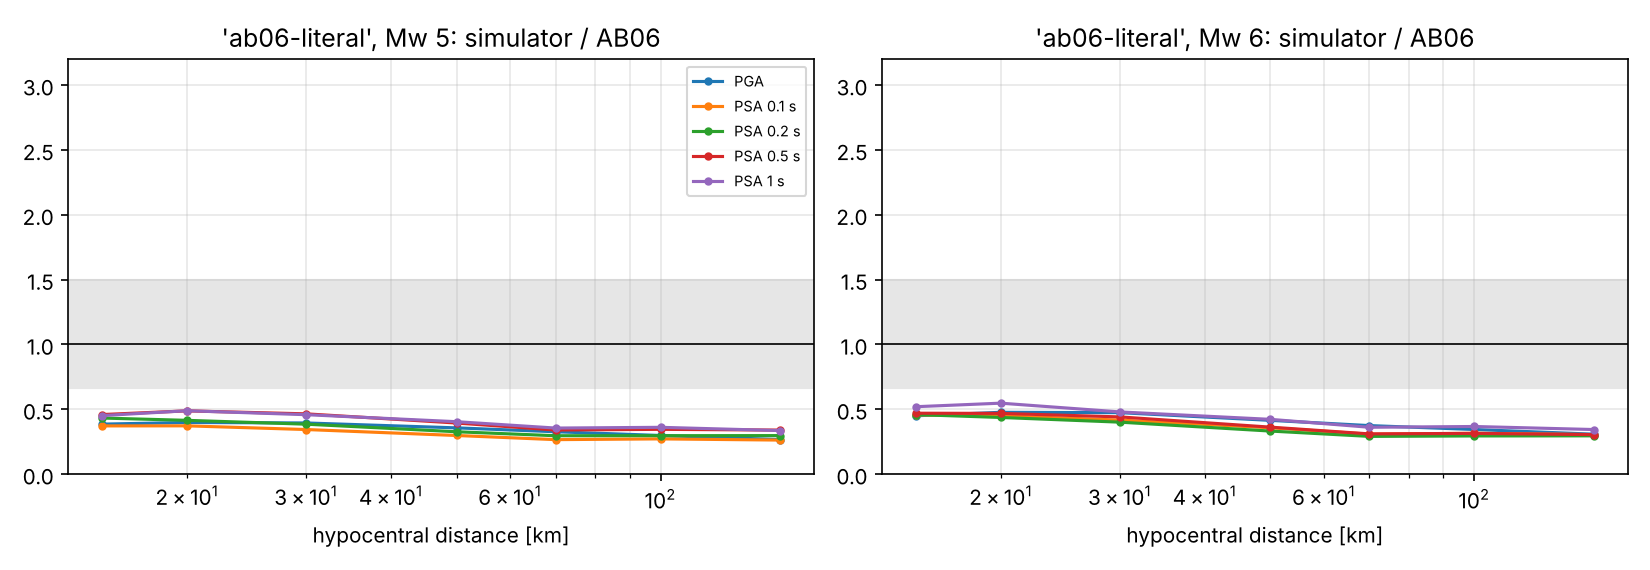
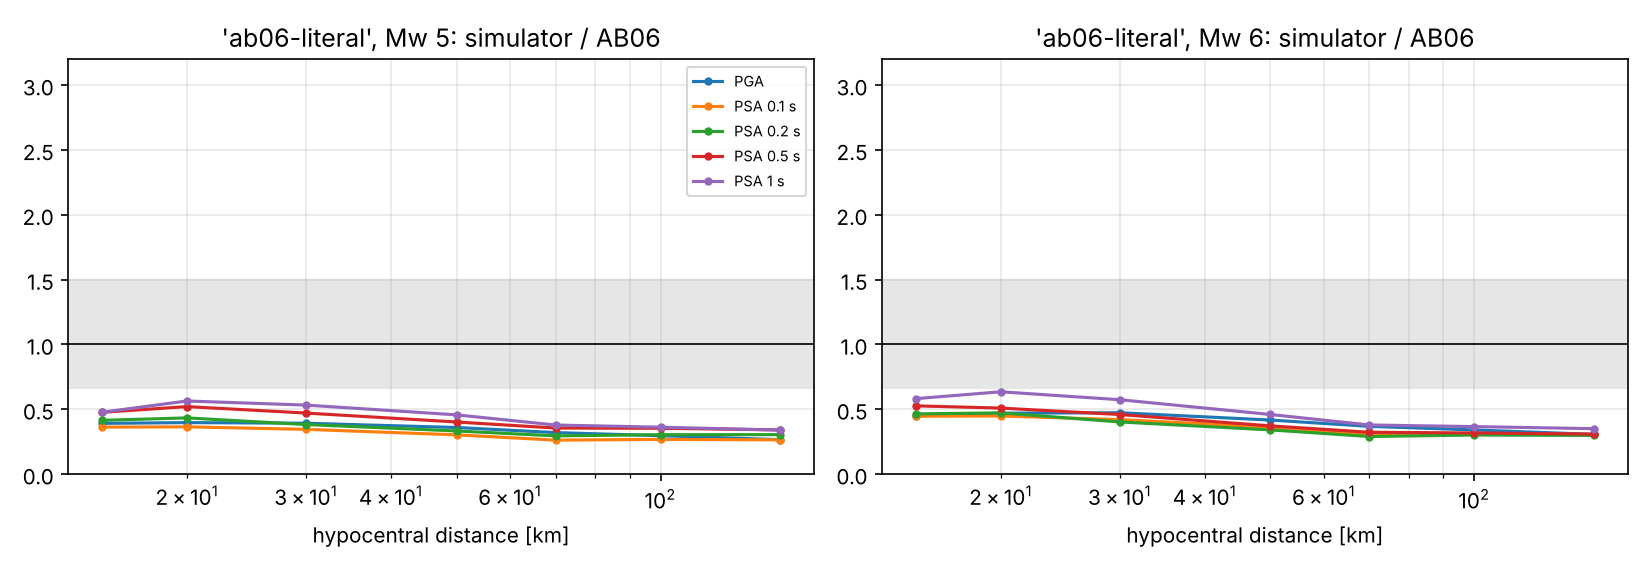
Independent P and S white noise (SimConfig.independent_ps_noise, default True)
Shared noise made the radial P/SV terms cancel partly when windows overlap,
so the energy fell to 0.67-0.9 of the target. Independent noise gives
0.97-1.01. The shared behaviour stays available (False / --shared-ps-noise).
Verification results, figures and READMEs updated.

Claude-Session: https://claude.ai/code/session_01MQgfPYRShpzXDpoBYcVaCQ

Changed region(s): [[0.0618, 0.686, 0.4945, 0.7754], [0.5564, 0.686, 0.9891, 0.7754]]

diff --git a/stochastic_gm/earthquake.py b/stochastic_gm/earthquake.py
@@ -58,7 +58,7 @@ def _process_one_subsource(args: tuple) -> dict:
     import math
     from stochastic_gm.physics import white_noise, FFT, scale_spectrum
 
-    ps, sim_seed, dt, standard_freqs, duration_max, _, noise_corr = args
+    ps, sim_seed, dt, standard_freqs, duration_max, _, noise_corr, indep_ps = args
 
     Normalization = None
     n_samples     = ps['n_samples']
@@ -73,6 +73,15 @@ def _process_one_subsource(args: tuple) -> dict:
     # 1. Generate unit-variance white noise (NOT duration-scaled)
     # ------------------------------------------------------------------
     wNoise = white_noise(n_samples, standard_dev=1.0, seed=sim_seed)
+    # S-wave noise: independent of the P-wave noise (default) or the same
+    # sequence (independent_ps_noise=False, the original behaviour).  With a
+    # shared sequence and overlapping P/S windows the opposite-sign radial P and
+    # SV terms partly cancel and the energy falls below the target.
+    if indep_ps:
+        _s_seed = int(np.random.SeedSequence([int(sim_seed), 0x5EED]).generate_state(1)[0])
+        wNoise_s = white_noise(n_samples, standard_dev=1.0, seed=_s_seed)
+    else:
+        wNoise_s = wNoise
 
     # ------------------------------------------------------------------
     # Window construction helper
@@ -92,8 +101,8 @@ def _process_one_subsource(args: tuple) -> dict:
     # ------------------------------------------------------------------
     # FFT helper with **time-domain energy normalization**
     # ------------------------------------------------------------------
-    def _fft_std(win):
-        wn = wNoise * win
+    def _fft_std(win, noise=None):
+        wn = (wNoise if noise is None else noise) * win
 
         # --- RMS normalization ---
         E = np.sum(wn**2) * dt
@@ -146,9 +155,9 @@ def _process_one_subsource(args: tuple) -> dict:
         time_arr = np.arange(n_samples) * dt
 
         fft_prms, fr_prms = _fft_std(PRMS_win)
-        fft_srms, fr_srms = _fft_std(SRMS_win)
+        fft_srms, fr_srms = _fft_std(SRMS_win, wNoise_s)
         fft_p3,   fr_p3   = _fft_std(P3_win)
-        fft_s3,   fr_s3   = _fft_std(S3_win)
+        fft_s3,   fr_s3   = _fft_std(S3_win, wNoise_s)
 
         fft_prms = _corr_h(fft_prms, fr_prms)
         fft_srms = _corr_h(fft_srms, fr_srms)
@@ -195,7 +204,7 @@ def _process_one_subsource(args: tuple) -> dict:
         )
 
         fft_p, fr_p = _fft_std(P_win)
-        fft_s, fr_s = _fft_std(S_win)
+        fft_s, fr_s = _fft_std(S_win, wNoise_s)
         fft_p_h, fft_s_h = _corr_h(fft_p, fr_p), _corr_h(fft_s, fr_s)   # horizontals
         fft_p_v, fft_s_v = _corr_v(fft_p, fr_p), _corr_v(fft_s, fr_s)   # verticals
 
@@ -990,7 +999,7 @@ class EQ:
 
         args = [
             (ps, sim_seed[i], dt, standard_freqs, duration_max, stddev,
-             self._corr_noise)
+             self._corr_noise, bool(getattr(self.sim_cfg, 'independent_ps_noise', True)))
             for i, ps in enumerate(PSource)
         ]
 

diff --git a/stochastic_gm/verification/verify_rvt.py b/stochastic_gm/verification/verify_rvt.py
@@ -72,7 +72,7 @@ CHECKED = 3        # PGA, PSA 0.1 s and 0.3 s are pass/fail; 1 s and 3 s are inf
 
 
 def run(n_sim=100, seed=1, mws=(5., 6., 7.), dists=(10., 30., 100.), dt=0.01,
-        tol_energy=0.05, tol_rvt=0.25, ftgm=2.0, output_dir='./verification_output',
+        tol_energy=0.05, tol_rvt=0.25, ftgm=2.0, independent_ps_noise=True, output_dir='./verification_output',
         show=False):
     import matplotlib
     if not show:
@@ -89,7 +89,8 @@ def run(n_sim=100, seed=1, mws=(5., 6., 7.), dists=(10., 30., 100.), dt=0.01,
         for R in dists:
             with warnings.catch_warnings():
                 warnings.simplefilter('ignore')
-                eq = build_scenario(n_sim, seed, None, Mw=Mw, dist_km=R, dt=dt, ftgm=ftgm)
+                eq = build_scenario(n_sim, seed, None, Mw=Mw, dist_km=R, dt=dt, ftgm=ftgm,
+                                      independent_ps_noise=independent_ps_noise)
             ps = eq.psources[0][0]
             f, Y = target_eas(ps)
             Tgm = float(ps['tgm_s'])
@@ -143,9 +144,12 @@ def main():
     p.add_argument('--tol-rvt', type=float, default=0.25)
     p.add_argument('--ftgm', type=float, default=2.0,
                    help='window Tw/Tgm; Boore (2003) uses 2.0, the example scripts 0.5')
+    p.add_argument('--shared-ps-noise', action='store_true',
+                   help='use ONE noise sequence for P and S (original behaviour)')
     p.add_argument('--output-dir', default='./verification_output')
     a = p.parse_args()
     sys.exit(0 if run(a.n_sim, a.seed, tol_energy=a.tol_energy, tol_rvt=a.tol_rvt, ftgm=a.ftgm,
+                      independent_ps_noise=not a.shared_ps_noise,
                       output_dir=a.output_dir) else 1)
 
 

diff --git a/stochastic_gm/verification/verify_interfrequency_correlation.py b/stochastic_gm/verification/verify_interfrequency_correlation.py
@@ -67,7 +67,7 @@ COND_COLORS = ('#1f3fd0', '#d01f1f', '#1f8a1f', '#c01fc0', 'k')
 # ---------------------------------------------------------------------------
 
 def build_scenario(n_sim, seed, corr_noise=None, Mw=6.5, dist_km=30.,
-                   depth_km=15., dt=0.01, kappa=0.04, ftgm=0.5):
+                   depth_km=15., dt=0.01, kappa=0.04, ftgm=0.5, independent_ps_noise=True):
     """Homogeneous half-space point-source scenario (edit to taste)."""
     medium = MediumConfig(Depth=np.array([0., 30.]), vs=np.array([3.46, 3.46]),
                           vp=np.array([6.0, 6.0]), Rho=np.array([2.7, 2.7]),
@@ -82,7 +82,8 @@ def build_scenario(n_sim, seed, corr_noise=None, Mw=6.5, dist_km=30.,
     sim = SimConfig(dt=dt, n_sim=n_sim, seed=seed,
                     epsilon_s=0.2, nu_s=0.05, ftgm_s=ftgm,
                     epsilon_p=0.2, nu_p=0.05, ftgm_p=ftgm,
-                    corr_noise=corr_noise)
+                    corr_noise=corr_noise,
+                    independent_ps_noise=independent_ps_noise)
     with contextlib.redirect_stdout(io.StringIO()):
         eq = EQ(Mw=Mw, medium=medium, source=source, path=path, site_cfg=site,
                 duration=duration, sim=sim, hypocenter=[0., 0., depth_km],

diff --git a/stochastic_gm/config.py b/stochastic_gm/config.py
@@ -462,5 +462,11 @@ class SimConfig:
     # original uncorrelated noise, behaviour unchanged).
     corr_noise: Optional[object] = None
 
+    # P and S waves use independent white-noise sequences (default True).
+    # False reproduces the original behaviour (one sequence shared by P and S),
+    # which loses energy when the P and S windows overlap; useful as a
+    # sensitivity/uncertainty-propagation option.
+    independent_ps_noise: bool = True
+
     def __post_init__(self):
         self.freq_ps = np.asarray(self.freq_ps, dtype=float)

diff --git a/stochastic_gm/verification/README.md b/stochastic_gm/verification/README.md
@@ -44,13 +44,14 @@ python -m stochastic_gm.verification.verify_rvt --n-sim 100 [--ftgm 2.0]
 * `--ftgm` is Tw/Tgm of the window. Boore uses 2.0 (default of this test); the example scripts use 0.5, which packs
   the energy into about a quarter of the duration, so RVT with Tgm then overpredicts long-period PSA.
 
-Result (Tw = 2 Tgm): PGA RVT/simulation 1.03-1.18; PSA 0.1 s 0.98-1.27; PSA 0.3 s 1.03-1.26.
+Result (Tw = 2 Tgm, independent P/S noise, the default): energy ratio 0.97-1.01 in all nine scenarios; RVT/simulation for PGA
+0.94-1.07, PSA 0.1 s 0.95-1.01, PSA 0.3 s 0.97-1.23; PASS.
 
-**Known finding.** For large magnitude, short distance and long windows the energy ratio falls to 0.67-0.9 and the
-script reports FAIL. Cause: P and S are built from the *same* white-noise sequence; the horizontal radial motion adds
-P (-sin θp) and SV (+cos θs) with opposite signs, so the common part cancels when the P and S windows overlap. With
-independent noise for P and S the ratio is 0.99-1.00 in every scenario (tested on a scratch copy, not yet applied
-to the package).
+**P/S noise option.** `SimConfig(independent_ps_noise=True)` (default) draws independent white-noise sequences for the P and S
+waves. With `False` (original behaviour, `--shared-ps-noise` in this script) one sequence is shared; when the P and S windows overlap
+(large magnitude, short distance, long window) the radial P (-sin θp) and SV (+cos θs) terms have opposite signs and partly cancel,
+and the energy falls to 0.67-0.9 of m0 (the script then reports FAIL). The shared option is kept for sensitivity /
+uncertainty-propagation studies.
 
 ## 4. GMPE comparison (`verify_gmpe_ab06`)
 ```
@@ -79,10 +80,10 @@ Criteria: (a) code check, simulator/independent-RVT within a factor 1.25 at PGA,
 
 Results (median over distance):
 
-* Simulator / textbook RVT: PGA 1.08-1.09, PSA 0.1 s 0.91-0.93, 0.2 s 0.83-0.88 (lower at 0.5-1 s, where RVT is known to
+* Simulator / textbook RVT: PGA 1.07-1.08, PSA 0.1 s 0.90-0.92, 0.2 s 0.83-0.88 (lower at 0.5-1 s, where RVT is known to
   overestimate).
-* `r-1-spreading`, simulator / AB06: PGA 1.07 (Mw 5), 1.23 (Mw 6); PSA 0.1 s 0.95, 1.11; PSA 0.2 s 1.06, 1.06; PSA 0.5 s 1.22, 1.12;
-  PSA 1 s 1.27, 1.32. Within the GMPE's own ±1σ everywhere.
+* `r-1-spreading`, simulator / AB06 (Mw 5, Mw 6): PGA 1.06, 1.22; PSA 0.1 s 0.95, 1.10; PSA 0.2 s 1.07, 1.08; PSA 0.5 s 1.27, 1.19;
+  PSA 1 s 1.36, 1.36. Within the GMPE's own ±1σ everywhere.
 * `ab06-literal`: both simulator and independent RVT sit at 0.3-0.4 of AB06 for PGA and ~0.7 at 1 s, with a distance trend of
   roughly R^-0.3. Because two independent implementations agree, this is a parameter-equivalence issue (the AB06 GMPE is a
   regression to finite-fault simulations; an R^-1.3 spreading referenced to 1 km does not reproduce its level at short periods),

diff --git a/README.md b/README.md
@@ -259,6 +259,12 @@ model and depend on magnitude (interpolated between M 4 and 6). The matrices cov
 summed motion is not constrained to the target; the code warns. A post-processing
 constraint on the summed motion is planned.
 
+### P/S noise independence
+
+`SimConfig(independent_ps_noise=True)` (default) uses independent white noise for the P and S waves of each
+sub-source. `False` reproduces the earlier behaviour (one shared sequence), which loses energy when the P and S
+windows overlap. Both are kept so the effect can be used in sensitivity analyses.
+
 ### Verification
 
 All tests are described in [`stochastic_gm/verification/README.md`](stochastic_gm/verification/README.md).
